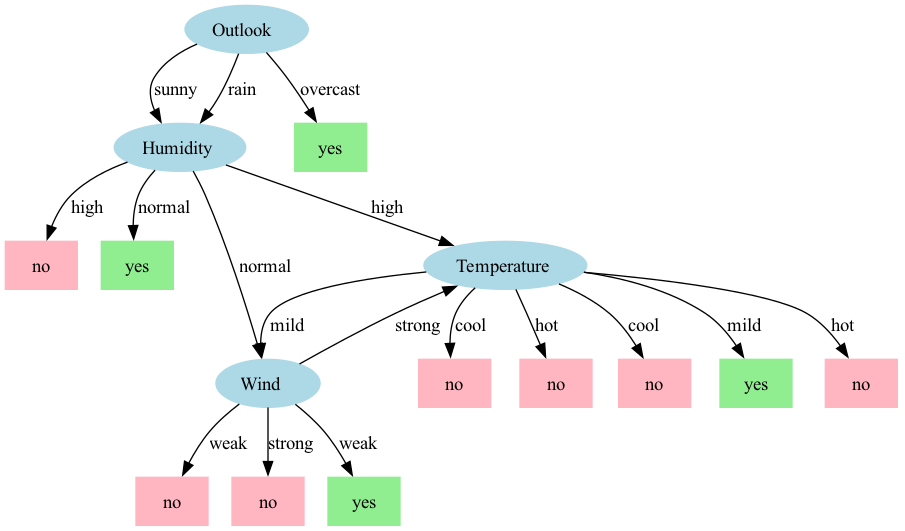
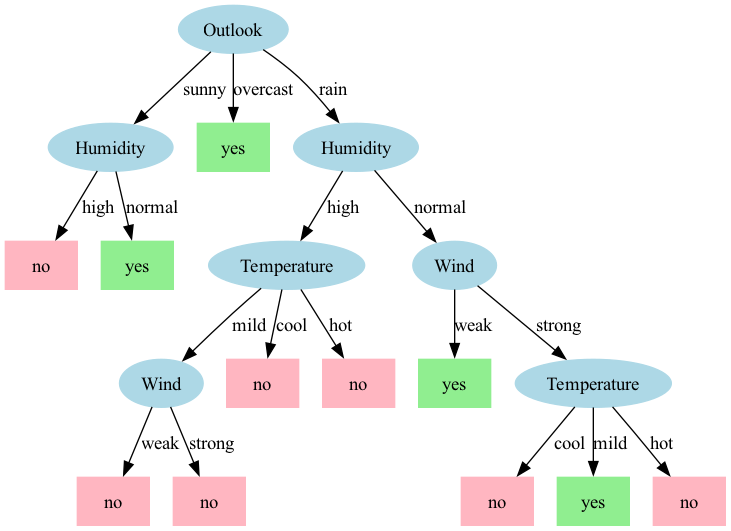
id3 - completed - tree plotted succesfull and classification is verfied

diff --git a/id3.py b/id3.py
@@ -31,52 +31,83 @@ def best_attribute(data, attributes):
 # Build the decision tree
 def build_tree(data, attributes):
     class_labels = data.iloc[:, -1].unique()
+    print(f"Building tree... Class labels: {class_labels}")
     if len(class_labels) == 1:
+        print(f"Only one class label: {class_labels[0]}")
         return class_labels[0]
     if not attributes:
-        return data.iloc[:, -1].mode()[0]
+        mode_class = data.iloc[:, -1].mode()[0]
+        print(f"No attributes left. Returning most common class: {mode_class}")
+        return mode_class
     best_attr = best_attribute(data, attributes)
+    print(f"Best attribute: {best_attr}")
     tree = {best_attr: {}}
     remaining_attributes = [attr for attr in attributes if attr != best_attr]
     for value in data[best_attr].unique():
+        print(f"Processing value '{value.strip()}' of attribute '{best_attr}'")
         subset = data[data[best_attr] == value]
         if subset.empty:
-            tree[best_attr][value] = data.iloc[:, -1].mode()[0]
+            mode_class = data.iloc[:, -1].mode()[0]
+            print(f"Subset is empty for '{value}'. Returning most common class: {mode_class}")
+            tree[best_attr][value.strip()] = mode_class
         else:
-            tree[best_attr][value] = build_tree(subset, remaining_attributes)
+            tree[best_attr][value.strip()] = build_tree(subset, remaining_attributes)
     return tree
 
 # Classify a new sample
-def classify(tree, sample):
+def classify(tree, sample, data):
+    print(f"Classifying sample: {sample}")
     if not isinstance(tree, dict):
+        print(f"Reached leaf node: {tree}")
         return tree
     root = next(iter(tree))
     value = sample[root]
-    if value not in tree[root]:
-        return "Unknown"  # Handle unseen values gracefully
-    return classify(tree[root][value], sample)
+    print(f"Root: {root}, Sample value: {value}")
+    
+    # Check if the value exists in the tree path
+    if value.strip() not in tree[root]:  # Strip spaces from both the tree and input
+        print(f"Value '{value.strip()}' not found in tree. Returning most common class.")
+        return data.iloc[:, -1].mode()[0]  # Fallback to the most common class
+    
+    return classify(tree[root][value.strip()], sample, data)
 
-# Simplified tree visualization
-def plot_tree_simple(tree, dot=None, parent=None, label=None):
+def plot_tree_simple(tree, dot=None, parent=None, label=None, node_counter=None):
+    if node_counter is None:
+        node_counter = [0]  # List to maintain a counter between recursive calls
+    
     if dot is None:
         dot = Digraph(format='png', graph_attr={'rankdir': 'TB'})
-    if isinstance(tree, dict):
-        root = next(iter(tree))
-        node_id = str(id(root))
+    
+    if isinstance(tree, dict):  # Non-leaf node
+        root = next(iter(tree))  # Get the root attribute of this subtree
+        node_id = f"{root}_{node_counter[0]}"  # Unique ID based on the root attribute and a counter
         dot.node(node_id, root, shape='ellipse', style='filled', color='lightblue')
+        
         if parent:
             dot.edge(parent, node_id, label=label)
+        
+        node_counter[0] += 1  # Increment the node counter for the next node
+        
         for value, subtree in tree[root].items():
-            plot_tree_simple(subtree, dot, parent=node_id, label=str(value))
-    else:
-        leaf_id = str(id(tree))
+            plot_tree_simple(subtree, dot, parent=node_id, label=str(value), node_counter=node_counter)
+    else:  # Leaf node
+        leaf_id = f"leaf_{node_counter[0]}"  # Unique leaf ID based on the counter
         dot.node(leaf_id, str(tree), shape='box', style='filled', color='lightgreen' if tree == 'yes' else 'lightpink')
-        dot.edge(parent, leaf_id, label=str(label))
+        
+        if parent:
+            dot.edge(parent, leaf_id, label=str(label))
+        
+        node_counter[0] += 1  # Increment the node counter
+    
     return dot
+
 
 # Main script
 file_path = 'data.csv'
 data = pd.read_csv(file_path)
+
+# Strip any extra spaces in the column names
+data.columns = data.columns.str.strip()
 
 # Normalize the dataset (case-insensitive)
 data = data.applymap(lambda x: x.lower() if isinstance(x, str) else x)
@@ -85,20 +116,23 @@ data = data.applymap(lambda x: x.lower() if isinstance(x, str) else x)
 attributes = list(data.columns[:-1])
 
 # Build decision tree
+print("\nBuilding decision tree...")
 tree = build_tree(data, attributes)
-print("Decision tree built successfully!")
+print("\nDecision tree built successfully!")
 
 # Visualize the tree
 dot = plot_tree_simple(tree)
 dot.render("decision_tree", format="png", cleanup=True)
 dot.view()
 
-# Classify a new sample
-print("\nProvide input values for classification:")
-new_sample = {}
-for attr in attributes:
-    new_sample[attr] = input(f"Enter value for {attr}: ").strip().lower()
+#Main MENU
+while True:
+    # Classify a new sample
+    print("\nProvide input values for classification:")
+    new_sample = {}
+    for attr in attributes:
+        new_sample[attr] = input(f"Enter value for {attr}: ").strip().lower()  # Strip extra spaces and convert to lower
 
-# Predict class
-predicted_class = classify(tree, new_sample)
-print(f"\nPredicted Class: {predicted_class}")
+    # Predict class
+    predicted_class = classify(tree, new_sample, data)
+    print(f"\nPredicted Class: {predicted_class}")
